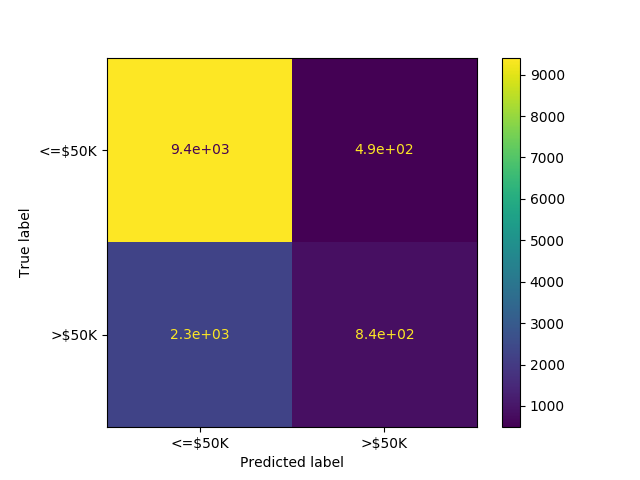
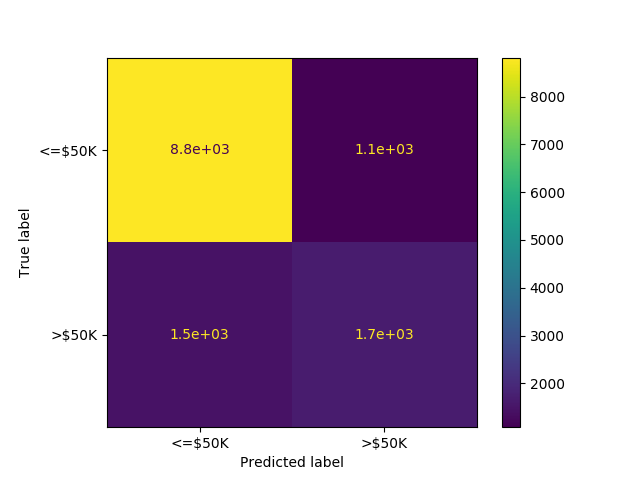
Last hyper param mods to gen algo

diff --git a/Code/artificial_neural_network.py b/Code/artificial_neural_network.py
@@ -15,9 +15,9 @@ def main():
     x_data, y_data = process_dataset.process_census_data()
     x_train, x_test, y_train, y_test = train_test_split(x_data, y_data, train_size=0.6, random_state=86)
 
-    ann = mlrose_hiive.NeuralNetwork(hidden_nodes=[32, 32], activation='relu', algorithm='random_hill_climb',
+    ann = mlrose_hiive.NeuralNetwork(hidden_nodes=[32, 32], activation='relu', algorithm='genetic_alg',
                                      max_iters=200, bias=True, is_classifier=True, learning_rate=0.5,
-                                     max_attempts=200, early_stopping=False)
+                                     max_attempts=200, early_stopping=False, clip_max=10)
 
     ann.fit(x_train, y_train)
 
@@ -44,8 +44,8 @@ def ann_weights_genetic_alg():
     parameters = [
         {'algorithm': ['genetic_alg'], 'hidden_nodes': [[32, 32]],
          'max_iters': [200],
-         'pop_size': [50, 100], 'random_state':[85],
-         'mutation_prob': [0.1, 0.3], 'learning_rate': [0.00001]}
+         'pop_size': [50], 'random_state':[85],
+         'mutation_prob': [0.1], 'learning_rate': [0.00001], 'clip_max': [10]}
     ]
 
     grid_searcher = GridSearchCV(mlrose_hiive.NeuralNetwork(), parameters)
@@ -289,11 +289,11 @@ def ann_weights_gradient_descent():
 if __name__ == '__main__':
     # main()
     print("Starting simulated annealing")
-    # ann_weights_simulate_annealing()
+    ann_weights_simulate_annealing()
     print("Starting genetic algorithm")
-    # ann_weights_genetic_alg()
+    ann_weights_genetic_alg()
     print("Starting random hillclimbing")
-    # ann_weights_randomized_hillclimbing()
+    ann_weights_randomized_hillclimbing()
     print("Starting gradient descent")
-    # ann_weights_gradient_descent()
-    main()
+    ann_weights_gradient_descent()
+    # main()
